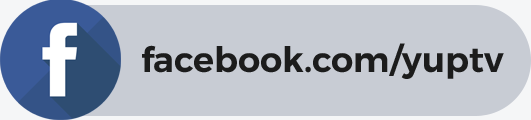
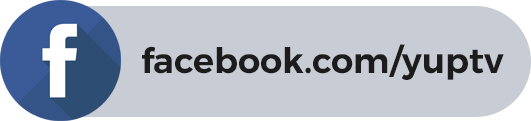
done

diff --git a/assets/down-app/css/style.css b/assets/down-app/css/style.css
@@ -4,7 +4,7 @@ body{
 
 .facebook-phone-group{
   margin: 0;
-  background: #e6e9ec;
+  background: #f5f6f7;
   padding: 20px 0;
   text-align: center;
 }
@@ -12,6 +12,7 @@ body{
 .img-facebook{
   width: auto;
   height: 40px;
+  margin-right: 5px;
 }
 .img-phone{
   width: auto;
@@ -26,9 +27,58 @@ body{
 .main-title{
   margin: 30px 0;
   font-size: 28px;
+  line-height: 32px;
 }
 
 p.sub-title{
   line-height: 20px;
   font-size: 12px;
+}
+
+/*==========  Mobile First Method  ==========*/
+
+/* Custom, iPhone Retina */
+@media only screen and (min-width : 320px) {
+  .img-facebook{
+    width: auto;
+    height: 40px;
+  }
+  .img-phone{
+    width: auto;
+    height: 40px;
+  }
+}
+
+/* Extra Small Devices, Phones */
+@media only screen and (min-width : 480px) {
+  .img-facebook{
+    width: auto;
+    height: 60px;
+  }
+  .img-phone{
+    width: auto;
+    height: 60px;
+  }
+}
+
+/* Small Devices, Tablets */
+@media only screen and (min-width : 768px) {
+  .img-facebook{
+    width: auto;
+    height: 80px;
+  }
+  .img-phone{
+    width: auto;
+    height: 80px;
+  }
+}
+
+/* Medium Devices, Desktops */
+@media only screen and (min-width : 992px) {
+
+}
+
+/* Large Devices, Wide Screens */
+@media only screen and (min-width : 1200px) {
+
 }
